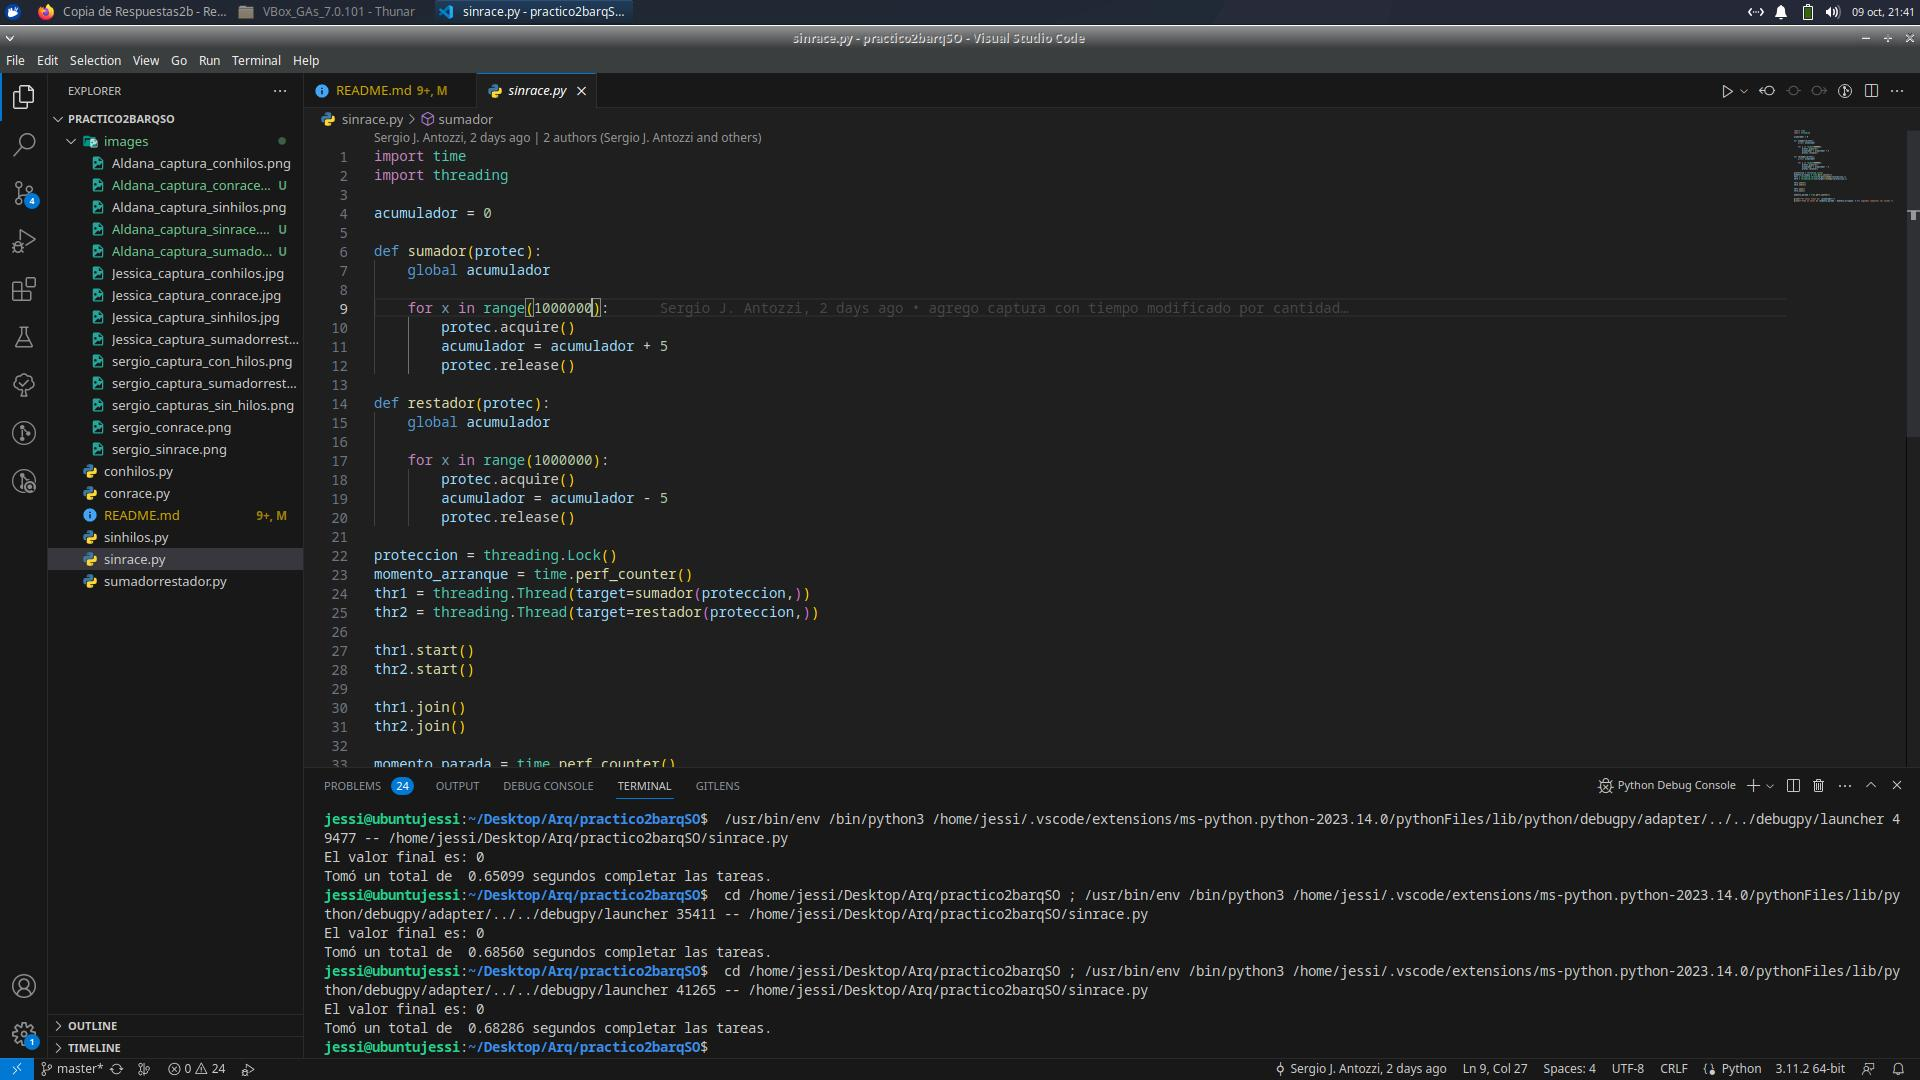
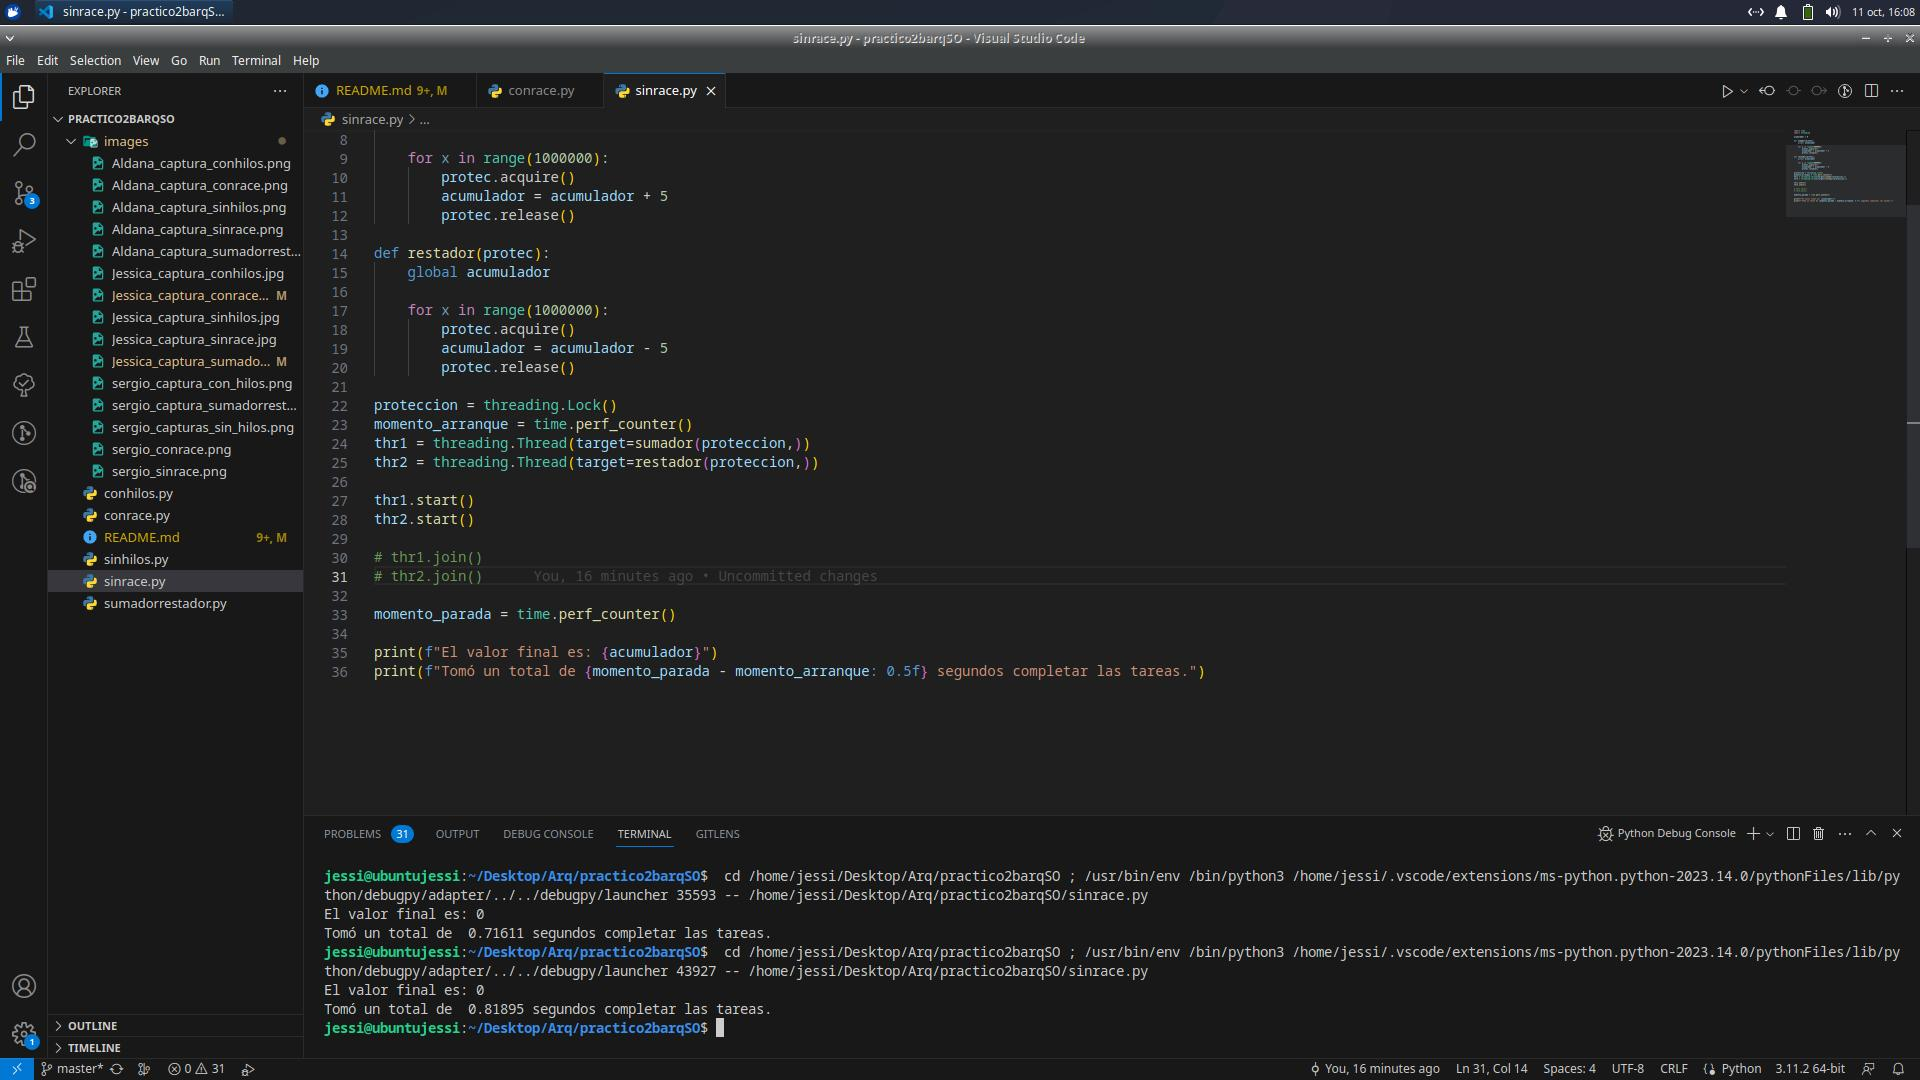
actualizacion capturas

diff --git a/README.md b/README.md
@@ -89,7 +89,9 @@ procesador intel core i3 4°generación
 
 <br>
 
-* 4.a)
+* 4.a)Al observar el resultado impreso, se puede notar que el tiempo de ejecución total es
+menor. Esto se debe a que los hilos permiten que las operaciones se realicen de manera
+simultánea, aprovechando los recursos de la máquina para ejecutar tareas en paralelo.
 
 * 4.b)
 
